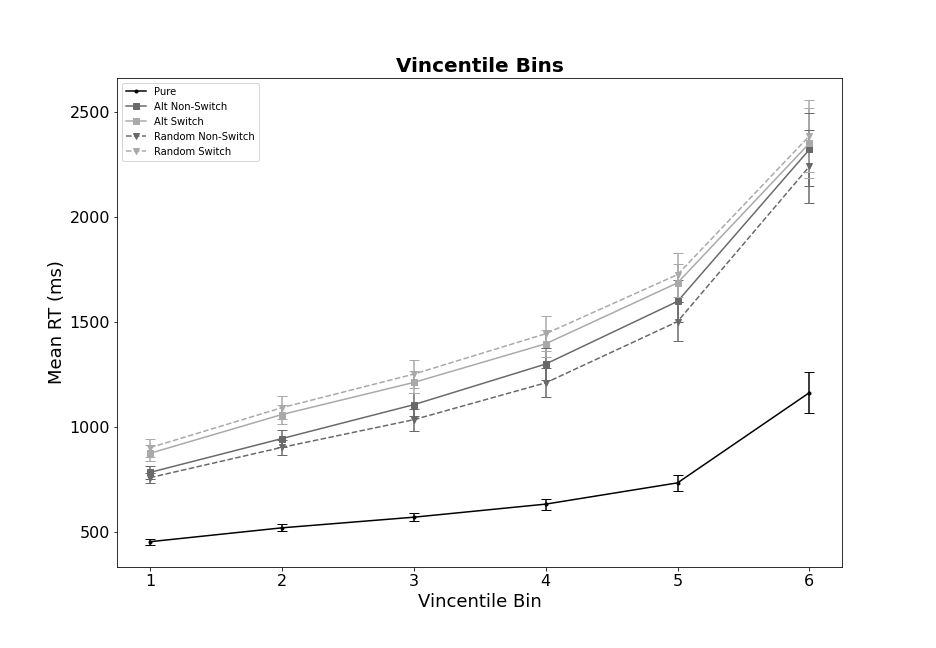
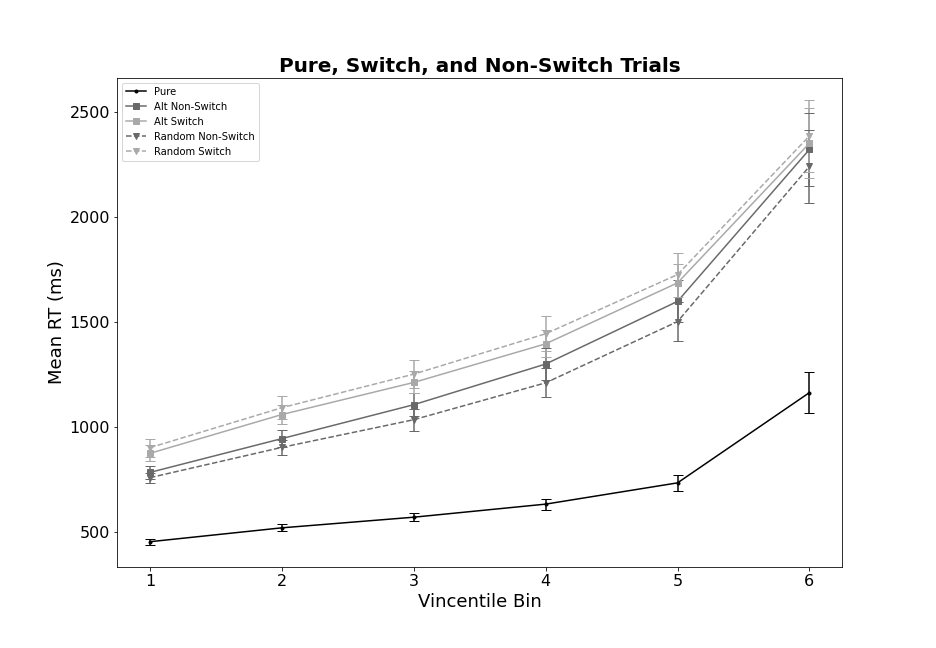
working on vin plots

Changed region(s): [[0.2788, 0.0926, 0.7436, 0.1235]]

diff --git a/1 YA/2 Analyses/2 Vincentiles/Plots/Vin plot trials.py b/1 YA/2 Analyses/2 Vincentiles/Plots/Vin plot trials.py
@@ -1,0 +1,70 @@
+##set up
+import pandas as pd
+import numpy as np
+import matplotlib.pyplot as plt
+
+dat = pd.read_csv("vincentiles.csv")
+
+dat['diff'] = dat['Upper'].sub(dat['Lower'])
+dat['diff2'] = dat['diff'].div(2)
+
+##set up the initial plot
+fig = plt.figure()
+fig.set_size_inches(13,9)
+
+##Make the subplots
+ax1 = fig.add_subplot(1, 1, 1)
+
+##might need to subset on trial type
+pure = dat[dat['Trial_Type'] == "pure"]
+alt_ns = dat[dat['Trial_Type'] == "alt_ns"]
+alt_switch = dat[dat['Trial_Type'] == "alt_switch"]
+rand_ns = dat[dat['Trial_Type'] == "rand_ns"]
+rand_switch = dat[dat['Trial_Type'] == "rand_switch"]
+
+##pure
+x1 = pure.bin.values
+y1 = pure.Average.values
+
+ax1.plot(x1, y1, marker = '.', color = 'k', label='Pure')
+ax1.errorbar(x1, y1, yerr = (pure['diff2']), fmt='none', c= 'k', capsize=5)
+
+##Non-switch alt
+x2 = alt_ns.bin.values
+y2 = alt_ns.Average.values
+
+ax1.plot(x2, y2, marker = 's', color = 'dimgray', label='Alt Non-Switch')
+ax1.errorbar(x2, y2, yerr = (alt_ns['diff2']), fmt='none', c= 'dimgray', capsize=5)
+
+##Switch alt
+x3 = alt_switch.bin.values
+y3 = alt_switch.Average.values
+
+ax1.plot(x3, y3, marker = 's', color = 'darkgray', label='Alt Switch')
+ax1.errorbar(x3, y3, yerr = (alt_switch['diff2']), fmt='none', c= 'darkgray', capsize=5)
+
+##rand ns
+x4 = rand_ns.bin.values
+y4 = rand_ns.Average.values
+
+ax1.plot(x4, y4,  '--', marker = 'v', color = 'dimgray', label='Random Non-Switch')
+ax1.errorbar(x4, y4, yerr = (rand_ns['diff2']), fmt='none', c= 'dimgray', capsize=5)
+
+##rand switch
+x5 = rand_switch.bin.values
+y5 = rand_switch.Average.values
+
+ax1.plot(x5, y5, '--', marker = 'v', color = 'darkgray', label='Random Switch')
+ax1.errorbar(x5, y5, yerr = (rand_switch['diff2']), fmt='none', c= 'darkgray', capsize=5)
+
+##Make the plot spiffy
+ax1.set_title('Pure, Switch, and Non-Switch Trials', fontsize = 20, fontweight = 'bold')
+ax1.set_ylabel('Mean RT (ms)', fontsize = 18)
+ax1.set_xlabel('Vincentile Bin', fontsize = 18)
+ax1.tick_params(axis='x', labelsize = 16)
+ax1.tick_params(axis='y', labelsize = 16)
+
+ax1.legend()
+
+fig
+#fig.savefig('YA_Vincentiles.png')

diff --git a/1 YA/2 Analyses/2 Vincentiles/Plots/Vin plot costs.py b/1 YA/2 Analyses/2 Vincentiles/Plots/Vin plot costs.py
@@ -58,7 +58,7 @@ ax1.plot(x5, y5, '--', marker = 'v', color = 'darkgray', label='Random Switch')
 ax1.errorbar(x5, y5, yerr = (rand_switch['diff2']), fmt='none', c= 'darkgray', capsize=5)
 
 ##Make the plot spiffy
-ax1.set_title('Vincentile Bins', fontsize = 20, fontweight = 'bold')
+ax1.set_title('Pure, Switch, and Non-Switch Trials', fontsize = 20, fontweight = 'bold')
 ax1.set_ylabel('Mean RT (ms)', fontsize = 18)
 ax1.set_xlabel('Vincentile Bin', fontsize = 18)
 ax1.tick_params(axis='x', labelsize = 16)
